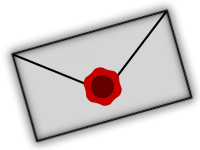
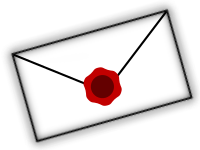
Letter hover image

diff --git a/paddlers-shared-lib/src/specification_types/sprites/sprite_paths.rs b/paddlers-shared-lib/src/specification_types/sprites/sprite_paths.rs
@@ -1,6 +1,6 @@
 use super::*;
 
-pub const SPRITE_PATHS_NUM: usize = 74;
+pub const SPRITE_PATHS_NUM: usize = 75;
 pub const SPRITE_PATHS: [&'static str; SPRITE_PATHS_NUM] = [
     "textures/grass.png", // 0
     "textures/water.png",
@@ -76,6 +76,7 @@ pub const SPRITE_PATHS: [&'static str; SPRITE_PATHS_NUM] = [
     "resources/population.png",
     "gui/duties.png",
     "gui/letter.png",
+    "gui/letter_hov.png",
 ];
 
 impl SingleSprite {
@@ -151,6 +152,7 @@ impl SingleSprite {
             SingleSprite::Population => 71,
             SingleSprite::Duties => 72,
             SingleSprite::Letter => 73,
+            SingleSprite::LetterHov => 74,
         }
     }
 }

diff --git a/paddlers-shared-lib/src/specification_types/sprites.rs b/paddlers-shared-lib/src/specification_types/sprites.rs
@@ -99,6 +99,7 @@ pub enum SingleSprite {
     Plus,
     Duties,
     Letter,
+    LetterHov,
 }
 
 #[derive(Debug, Clone, Copy, Deserialize)]
